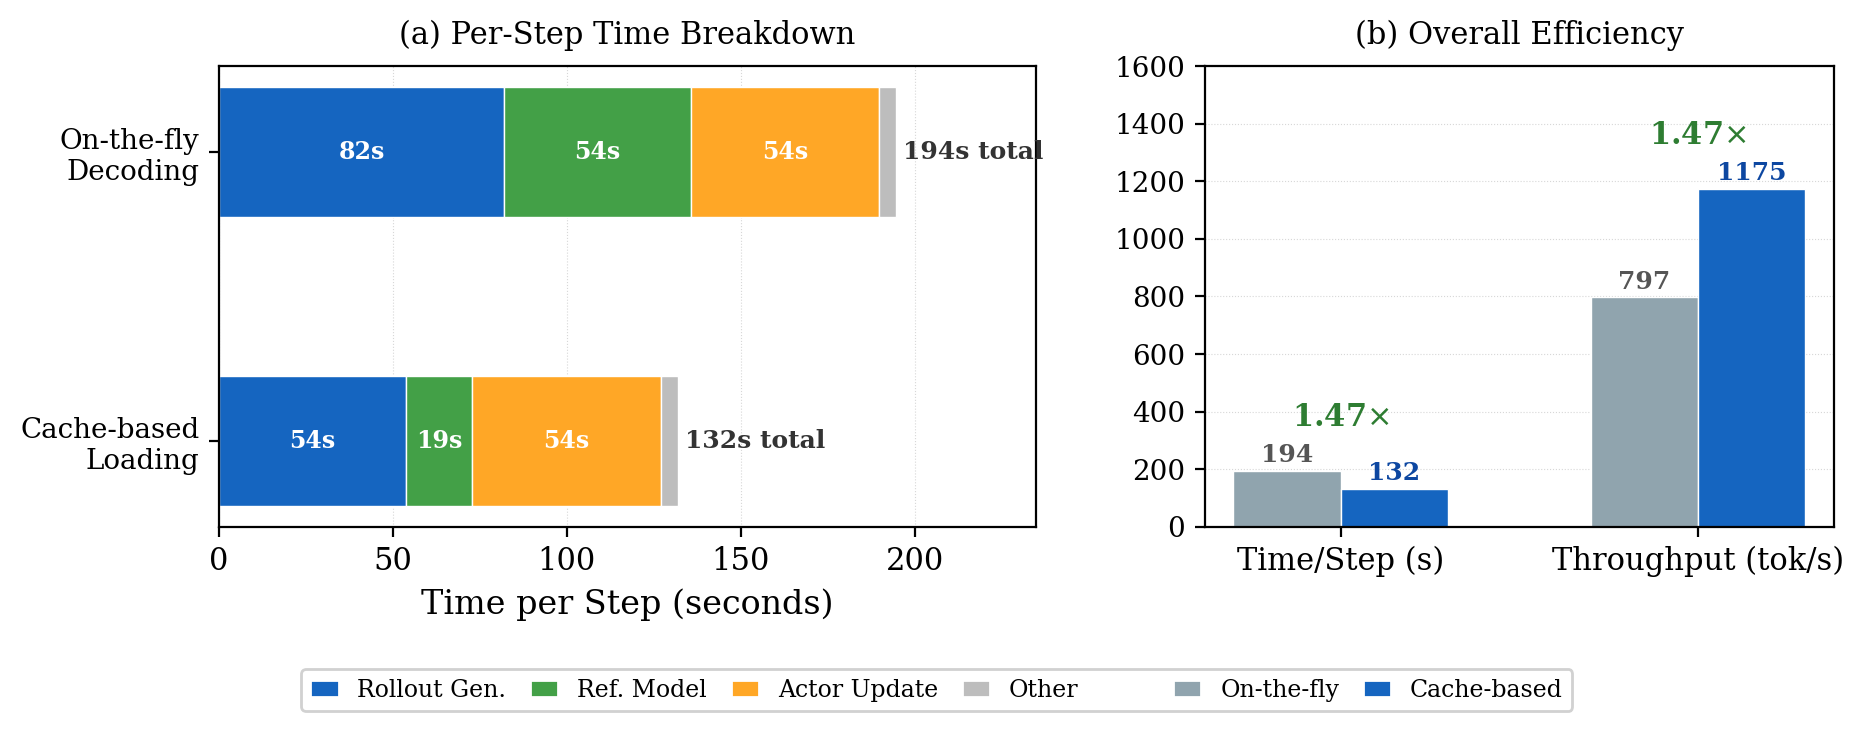
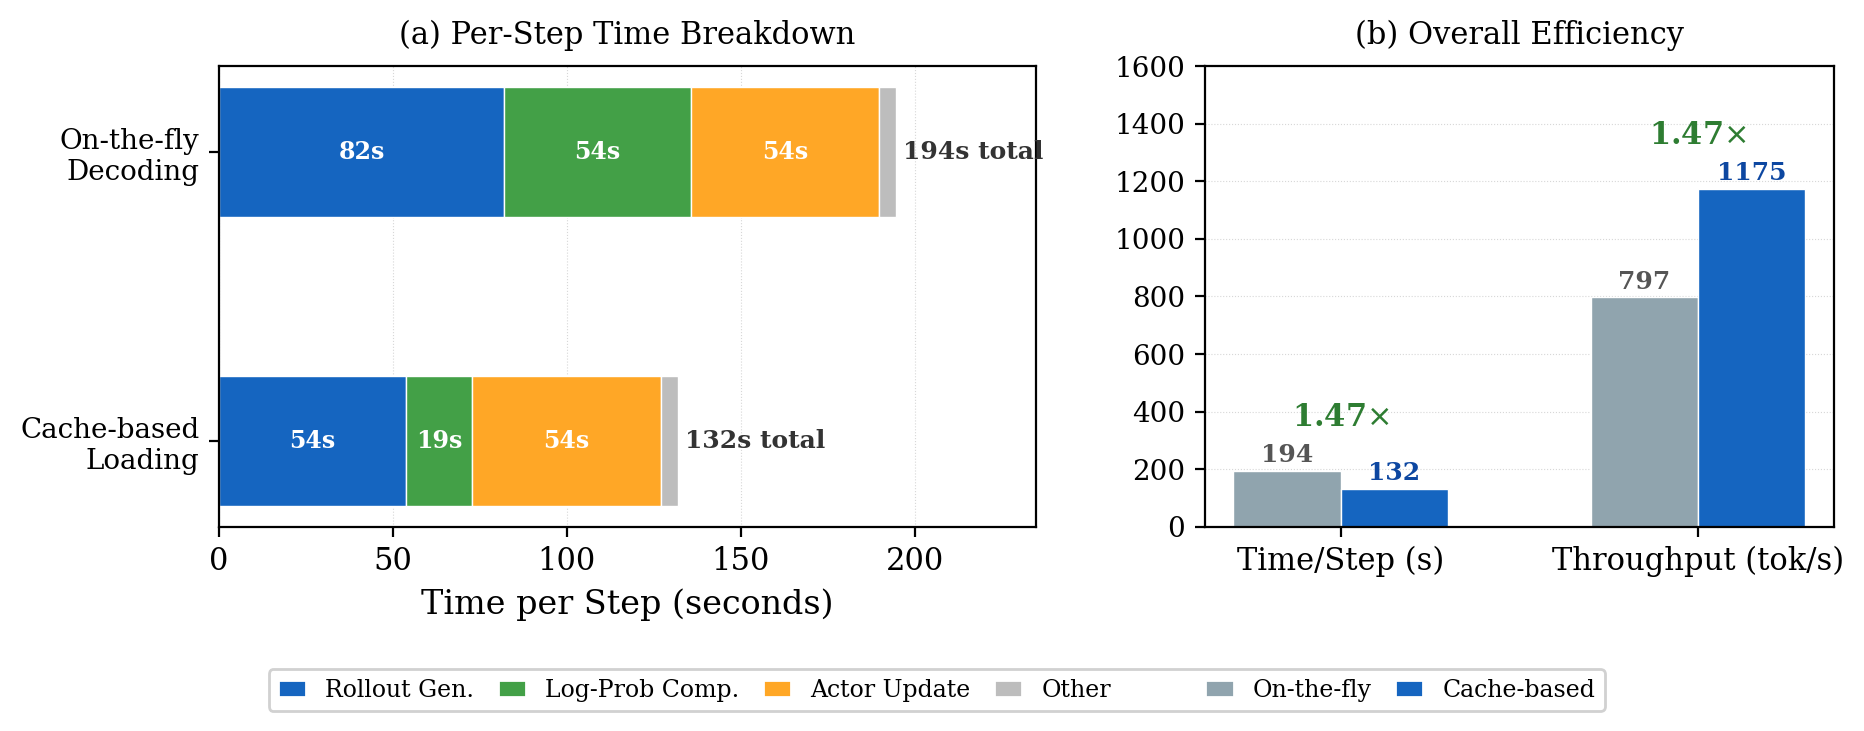
Update README: expand VLM/RL coverage, fix wording, clean up unused assets
- List all supported VLMs (Qwen2-VL/2.5-VL/3-VL/3.5-VL) and RL algorithms
  (GRPO, DAPO, GSPO, CISPO, Reinforce++, ReMax, RLOO) with EasyR1 lineage
- Fix misleading "reduces by Nx" phrasing to "accelerates by Nx"
- Fix typo: Assigenment → Assignment
- Fix citation URL in README_zh.md
- Simplify config_parameters.md title
- Update efficiency.png, remove unused assets (baselines.md, easyr1_grpo.png,
  qwen2_5_vl_7b_geo.png)

Changed region(s): [[0.1245, 0.9029, 0.5912, 0.9631], [0.6223, 0.9029, 0.8712, 0.9932]]

diff --git a/README_zh.md b/README_zh.md
@@ -7,11 +7,11 @@
 ## 📍 特性
 
 ### 视频友好的RL管线优化
--  1. 离线预处理与基于缓存的训练：rollout生成时间减少1.5倍，参考模型前向时间减少2.9倍，**单步时间和token吞吐量均实现1.47倍加速**。
+-  1. 离线预处理与基于缓存的训练：rollout生成加速1.5倍，log-probability计算加速2.9倍，**整体单步时间和token吞吐量均实现1.47倍加速**。
 -  2. 任务感知提示与奖励分配系统：**支持10+种任务类型及其准确率评分/奖励方法**。具体而言，EasyVideoR1默认完整实现了以下奖励类型：选择题、数值题、时序定位、时空定位、开放式问答。此外，提示词格式也已为以下额外任务类型准备就绪：空间定位、Tracking、OCR、布尔问答、数学和代码生成。
 -  3. 更灵活的视频超参数设置：支持视频元数据以实现精确的帧处理。
--  4. 先进视觉语言模型：支持Qwen3-VL系列视觉语言模型。
--  5. 多种强化学习算法：支持GRPO、DAPO等主流强化学习算法。
+-  4. 先进视觉语言模型：支持 **Qwen2-VL / Qwen2.5-VL / Qwen3-VL / Qwen3.5-VL** 系列视觉语言模型。
+-  5. 丰富的强化学习算法：继承自 [EasyR1](https://github.com/hiyouga/EasyR1)，支持 **GRPO、DAPO、GSPO、CISPO、Reinforce++、ReMax、RLOO** 等多种算法。
 ### 算法开发研究友好接口
 -  1. 混合模态流程适配：通过优化梯度流，**支持联合文本-图像-视频训练**。
 -  2. 轻量级混合策略接口：**支持在线-离线混合训练（mix policy）**。
@@ -27,7 +27,7 @@
   <img src="assets/benchmark.png" alt="基准测试结果" width="90%">
 </div>
 
-视频预处理缓存机制相比实时解码，将单步训练时间减少 **1.47 倍**，且不影响精度。
+视频预处理缓存机制相比实时解码，将单步训练速度提升 **1.47 倍**，且不影响精度。
 
 <div align="center">
   <img src="assets/efficiency.png" alt="训练效率" width="90%">
@@ -138,7 +138,7 @@ EasyVideoR1/
 ├── verl/                       # 核心 RL 训练框架
 │   ├── trainer/                # 训练循环 & Ray 编排
 │   ├── workers/                # Actor、rollout、reward、critic workers
-│   ├── models/                 # Qwen3-VL / Qwen2-VL 模型支持
+│   ├── models/                 # Qwen2-VL / Qwen2.5-VL / Qwen3-VL 模型支持
 │   └── utils/                  # 数据集、分词、FSDP 工具
 ├── examples/
 │   ├── video_rl/               # 纯视频 RL 管线（单文件 reward）
@@ -204,7 +204,7 @@ bash examples/unified_rl/run_unified_rl.sh
 @misc{zheng2025easyr1,
   title        = {EasyVideoR1: Easier RL for Video Understanding},
   author       = {},
-  howpublished = {\url{[https://github.com/hiyouga/EasyR1](https://github.com/cyuQ1n/EasyVideoR1)}},
+  howpublished = {\url{https://github.com/cyuQ1n/EasyVideoR1}},
   year         = {2026}
 }
 ```

diff --git a/README.md b/README.md
@@ -7,11 +7,11 @@ In our pursuit of advancing video understanding through post-training of multimo
 ## 📍 Features
 
 ### Video Friendly Optimization
--   1. Offline Preprocessing and Cache-Based Training: **reduces rollout generation time by 1.5× and reference model forward time by 2.9×, and achieves a 1.47× speedup in both wall-clock time per step and token throughput.**
--   2. Task-Aware Prompt and Reward Assigenment System: **supports 10+ task types and their accuracy scoring/reward methods.** Specifically, EasyVideoR1 fully implements the following reward types by default: multiple choice, numerical, temporal grounding, spatial-temporal grounding, and open-ended QA. Prompt formatting is also available for additional task types including spatial grounding, tracking, OCR, boolean QA, math, and code generation.
+-   1. Offline Preprocessing and Cache-Based Training: **accelerates rollout generation by 1.5× and log-probability computation by 2.9×, achieving a 1.47× overall speedup in both wall-clock time per step and token throughput.**
+-   2. Task-Aware Prompt and Reward Assignment System: **supports 10+ task types and their accuracy scoring/reward methods.** Specifically, EasyVideoR1 fully implements the following reward types by default: multiple choice, numerical, temporal grounding, spatial-temporal grounding, and open-ended QA. Prompt formatting is also available for additional task types including spatial grounding, tracking, OCR, boolean QA, math, and code generation.
 -   3. More flexible video-hyperparameter settings: **Video metadata support for precise frame processing**
--   4. Advanced VLMs: **supports Qwen3-VL series vision-language models.**
--   5. Different RL Algorithm:  **supports popular RL algorithms like GRPO, DAPO**
+-   4. Advanced VLMs: supports **Qwen2-VL / Qwen2.5-VL / Qwen3-VL / Qwen3.5-VL** series vision-language models.
+-   5. Rich RL Algorithms: inherited from [EasyR1](https://github.com/hiyouga/EasyR1), supports **GRPO, DAPO, GSPO, CISPO, Reinforce++, ReMax, RLOO** and more.
 ### Research-Friendly Interfaces for Algorithm Development
 -   1. Mixed-Modality Pipeline Adaptation: **supports joint Text-Image-Video training with optimized gradient flow.**
 -   2. A Lightweight Mix-policy Interface: **supports hybrid online-offline training.**
@@ -138,7 +138,7 @@ EasyVideoR1/
 ├── verl/                       # Core RL training framework
 │   ├── trainer/                # Training loop & Ray orchestration
 │   ├── workers/                # Actor, rollout, reward, critic workers
-│   ├── models/                 # Qwen3-VL / Qwen2-VL model support
+│   ├── models/                 # Qwen2-VL / Qwen2.5-VL / Qwen3-VL model support
 │   └── utils/                  # Dataset, tokenization, FSDP utilities
 ├── examples/
 │   ├── video_rl/               # Video-only RL pipeline (single-file reward)

diff --git a/docs/config_parameters.md b/docs/config_parameters.md
@@ -1,4 +1,4 @@
-# EasyVideoR1 配置参数说明（基于源码）
+# EasyVideoR1 配置参数说明
 
 本文档基于 EasyVideoR1 源码中的 dataclass 定义，总结各类配置参数，以及这些参数在代码中的使用与串联方式。
 
